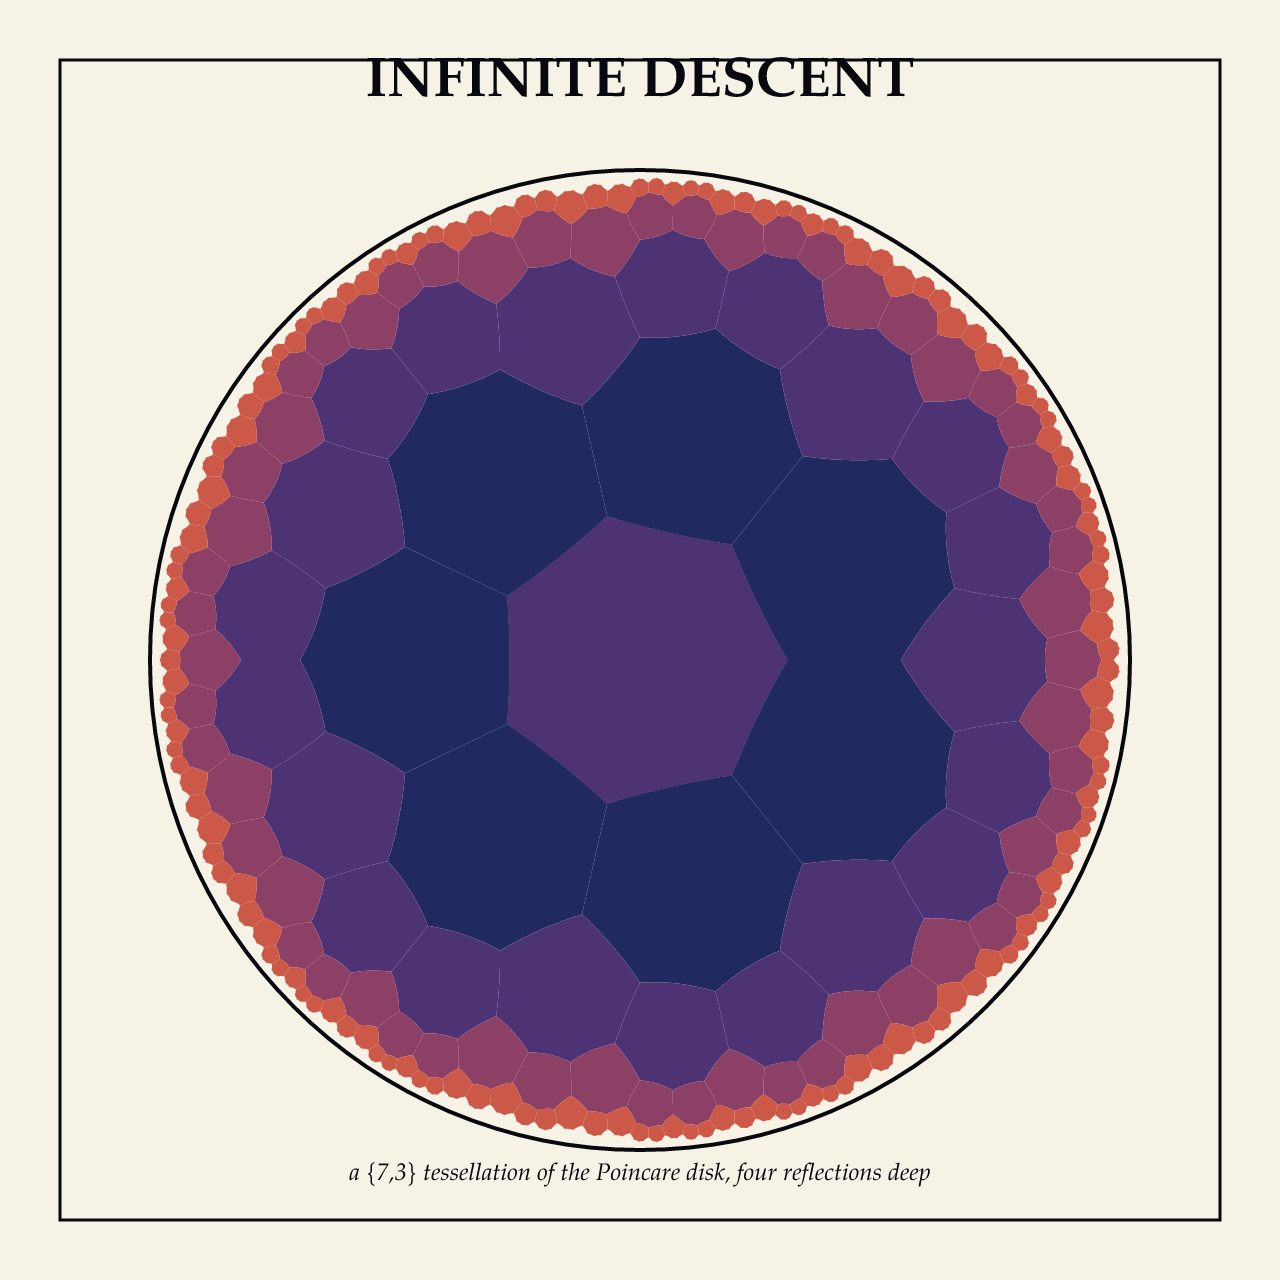
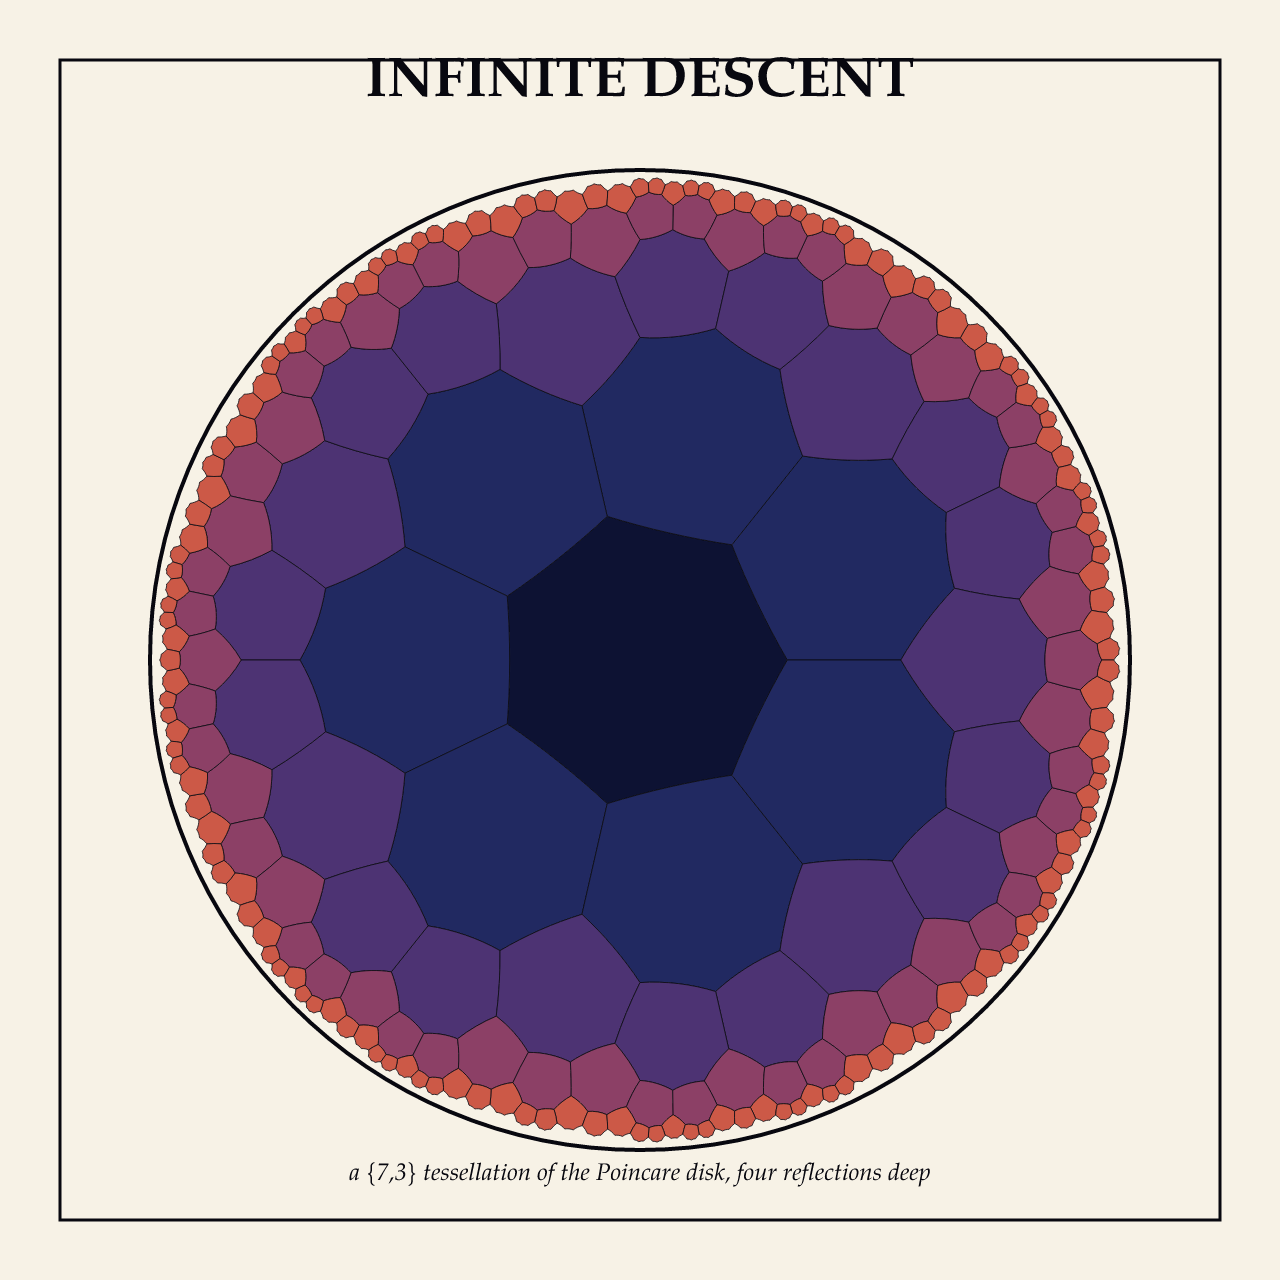
Fix two real bugs found by cross-model (Codex) review
- httile seeded its dedup-visited list with the fundamental polygon's
  vertex 0 instead of its centroid (the origin, by construction). Every
  {p,q} tiling reflects a gen-1 neighbor back into an exact copy of the
  fundamental by depth 2 (unavoidable), and that copy's true centroid
  was never in the visited list, so it passed dedup as "new" and got
  enqueued as a bogus generation-2 duplicate sitting on the center tile.
  This also explains a ~1-tile discrepancy against an independent
  Python prototype earlier attributed (wrongly) to floating-point noise
  near the dedup threshold. Fixed by seeding with 0 0 directly; counts
  now match the Python prototype exactly at every {p,q,depth} checked.
  Tile-count regression pin: 30 -> 29; gallery piece count: 233 -> 232
  everywhere it's mentioned.
- Both examples/hyperbolic.ps and gallery/infinite_descent.ps's httile
  paint callbacks did fill-then-stroke on the driver-built path, but
  this interpreter's fill does an implicit newpath after painting
  regardless of outcome (documented in src/gfx.rs) -- so every tile
  outline stroke was silently a no-op. Fixed with gsave/grestore around
  the fill, the idiom this interpreter's own gsave/grestore-restores-
  the-path semantics is built to support.

Re-rendered gallery/renders/infinite_descent.png; full story in
NOTES.md.

Claude-Session: https://claude.ai/code/session_017k6qwDtah2Xuw6uGGdyaLP

diff --git a/tests/artkit.rs b/tests/artkit.rs
@@ -638,23 +638,15 @@ fn httile_generates_the_expected_tile_count_and_calls_proc_that_many_times() {
     // {p,q,depth,frame} -- a regression net on the reflection generator
     // and its edge-length-scaled dedup tolerance together, the way
     // lattice_walks_the_expected_points pins lattice's exact points.
-    //
-    // This pin sits closer to a floating-point cliff than most: the
-    // dedup check is `distance < 0.3 * edge_length`, and at least one
-    // candidate tile in this {7,3} depth-2 configuration was observed to
-    // land within noise of that boundary (pscat and an independent
-    // Python prototype of the same algorithm agreed on every {p,q,depth}
-    // tried except this class of case, off by exactly one tile — see
-    // NOTES.md). If this test starts failing after an unrelated change
-    // (a trig implementation detail, a number-representation change),
-    // check whether the new count is still a plausible dense {7,3}
-    // tiling (render it) before assuming the reflection/dedup logic
-    // itself regressed -- it may just be a duplicate near the boundary
-    // resolving the other way.
+    // Cross-checked against an independent Python prototype of the same
+    // algorithm, which agrees exactly at this and several other
+    // {p,q,depth} combinations (NOTES.md) -- this is a real invariant of
+    // the geometry, not an incidental snapshot of whatever the code
+    // happened to produce.
     let got = eval("/n 0 def 100 100 90 7 3 2 { pop /n n 1 add def } httile n");
     assert_eq!(
         got,
-        ["30"],
+        ["29"],
         "httile tile count drifted from its pinned value"
     );
 }

diff --git a/NOTES.md b/NOTES.md
@@ -18,7 +18,7 @@ geodesic's support circle, or the degenerate diameter case), `hreflect`
 `httile` (a breadth-first-reflection generator for regular {p,q}
 hyperbolic tessellations). New demo `examples/hyperbolic.ps` (three
 panels: `httile`, `hpolar`, raw `hgeo`); new gallery piece
-`gallery/infinite_descent.ps`, a {7,3} tessellation (233 tiles, four
+`gallery/infinite_descent.ps`, a {7,3} tessellation (232 tiles, four
 reflection generations) colored in rings by BFS generation.
 
 Two real bugs, both caught by validating the algorithm in a standalone
@@ -67,6 +67,53 @@ determinant that flags the degenerate/diameter case is scale-invariant
 here, so the radius itself is capped instead (>50 falls back to the
 diameter case) — visually identical to the true arc at that radius
 regardless of device scale.
+
+Two more real bugs, caught by cross-model review (Codex) after the
+Python-prototype-validated version above was already up and passing its
+own tests — both invisible to the tests that existed at that point,
+which is exactly the kind of gap independent review is for:
+
+- `httile` seeded its dedup-visited list with the fundamental polygon's
+  *vertex 0* (`htfund 0 get`/`htfund 1 get`) instead of its centroid —
+  which happens to be the origin by construction, but the code never
+  said so; it read two array slots that looked like they'd give the
+  center and didn't. Every `{p,q}` tiling reflects at least one gen-1
+  neighbor back across its shared edge into an exact copy of the
+  fundamental tile by depth 2 (an unavoidable involution, not an edge
+  case), and that copy's true centroid — the real origin — was never
+  actually in the visited list, so it passed the dedup check as "new"
+  and got enqueued as a bogus generation-2 duplicate sitting exactly on
+  top of generation 0. Silent in a render (the duplicate just repaints
+  the center in whatever color that generation gets) but not silent in
+  the tile count: this fully explains a ~1-tile discrepancy against the
+  Python prototype that earlier testing (see the arithmetic-pin test's
+  original comment, since corrected) wrongly wrote off as floating-point
+  noise near the dedup threshold — it was this bug, deterministically,
+  every time. Fixed by seeding `htvisited` with `0 0` outright rather
+  than reading it off `htfund`; tile counts now match the Python
+  prototype exactly at every `{p,q,depth}` checked (previously off by
+  one). The pinned regression test's count changed from 30 to 29
+  accordingly, and the gallery piece's tile count from "233" to "232" in
+  every place it's mentioned.
+- Both `examples/hyperbolic.ps` and `gallery/infinite_descent.ps`'s
+  `httile` paint callbacks did `fill` then `stroke` on the same
+  driver-built path, expecting the outline stroke to trace the same
+  shape just filled. `Gfx::fill` in this interpreter does an implicit
+  `newpath` after painting regardless of whether anything was actually
+  filled (`src/gfx.rs`: "Painting consumes the path... filled or not")
+  — a deliberate, documented deviation, but one this code didn't
+  account for, so every tile's outline stroke was silently a no-op (no
+  error, just no ink) in both files. Fixed with the idiom this
+  interpreter's own gsave/grestore semantics is built to support —
+  `gsave fill grestore stroke`, since (per the note above about
+  gsave/grestore restoring the path) that fill's implicit newpath is
+  itself undone by the grestore. `examples/tiling.ps`'s hexgrid/trigrid
+  stamps sidestep this differently (rebuilding the shape fresh before
+  stroking rather than relying on the path surviving fill) because they
+  have direct access to their own shape-building procs (`hex`/`tri`);
+  `httile`'s client callbacks don't (the driver, not the client, is the
+  one holding the curved-edge geometry), so gsave/grestore is the
+  fix that actually fits httile's contract.
 
 Verified against `gs` throughout, not just at the end: both the
 Ghostscript acceptance driver (`tests/artkit.rs`) and every render done

diff --git a/gallery/README.md b/gallery/README.md
@@ -23,7 +23,7 @@ overridden per line through the font's scratch dict.
 | Hundred Lines | `hundred_lines.ps` | The Stage 12 /HandScript dynamic font writing punishment lines on a chalkboard — same sentence nine times, no two letters alike, jitter climbing line by line |
 | Hortus Machinalis | `hortus.ps` | (Stage 19) A herbarium plate: three L-system plants grown by turtle, dried blossoms stamped along the plant's own path with `pathforall`, Palatino letterpress |
 | Woven Labyrinth | `woven_labyrinth.ps` | Sébastien Truchet's 1704 two-triangle tile, randomly quarter-turned 256 times (artkit's `truchet`) — the single motif chains into a continuous flowing quilt pattern |
-| Infinite Descent | `infinite_descent.ps` | A Poincaré-disk {7,3} hyperbolic tessellation (artkit's `httile`) — one heptagon reflected across its own edges out to four generations, 233 tiles colored in rings by generation |
+| Infinite Descent | `infinite_descent.ps` | A Poincaré-disk {7,3} hyperbolic tessellation (artkit's `httile`) — one heptagon reflected across its own edges out to four generations, 232 tiles colored in rings by generation |
 
 ## Viewing the gallery
 
